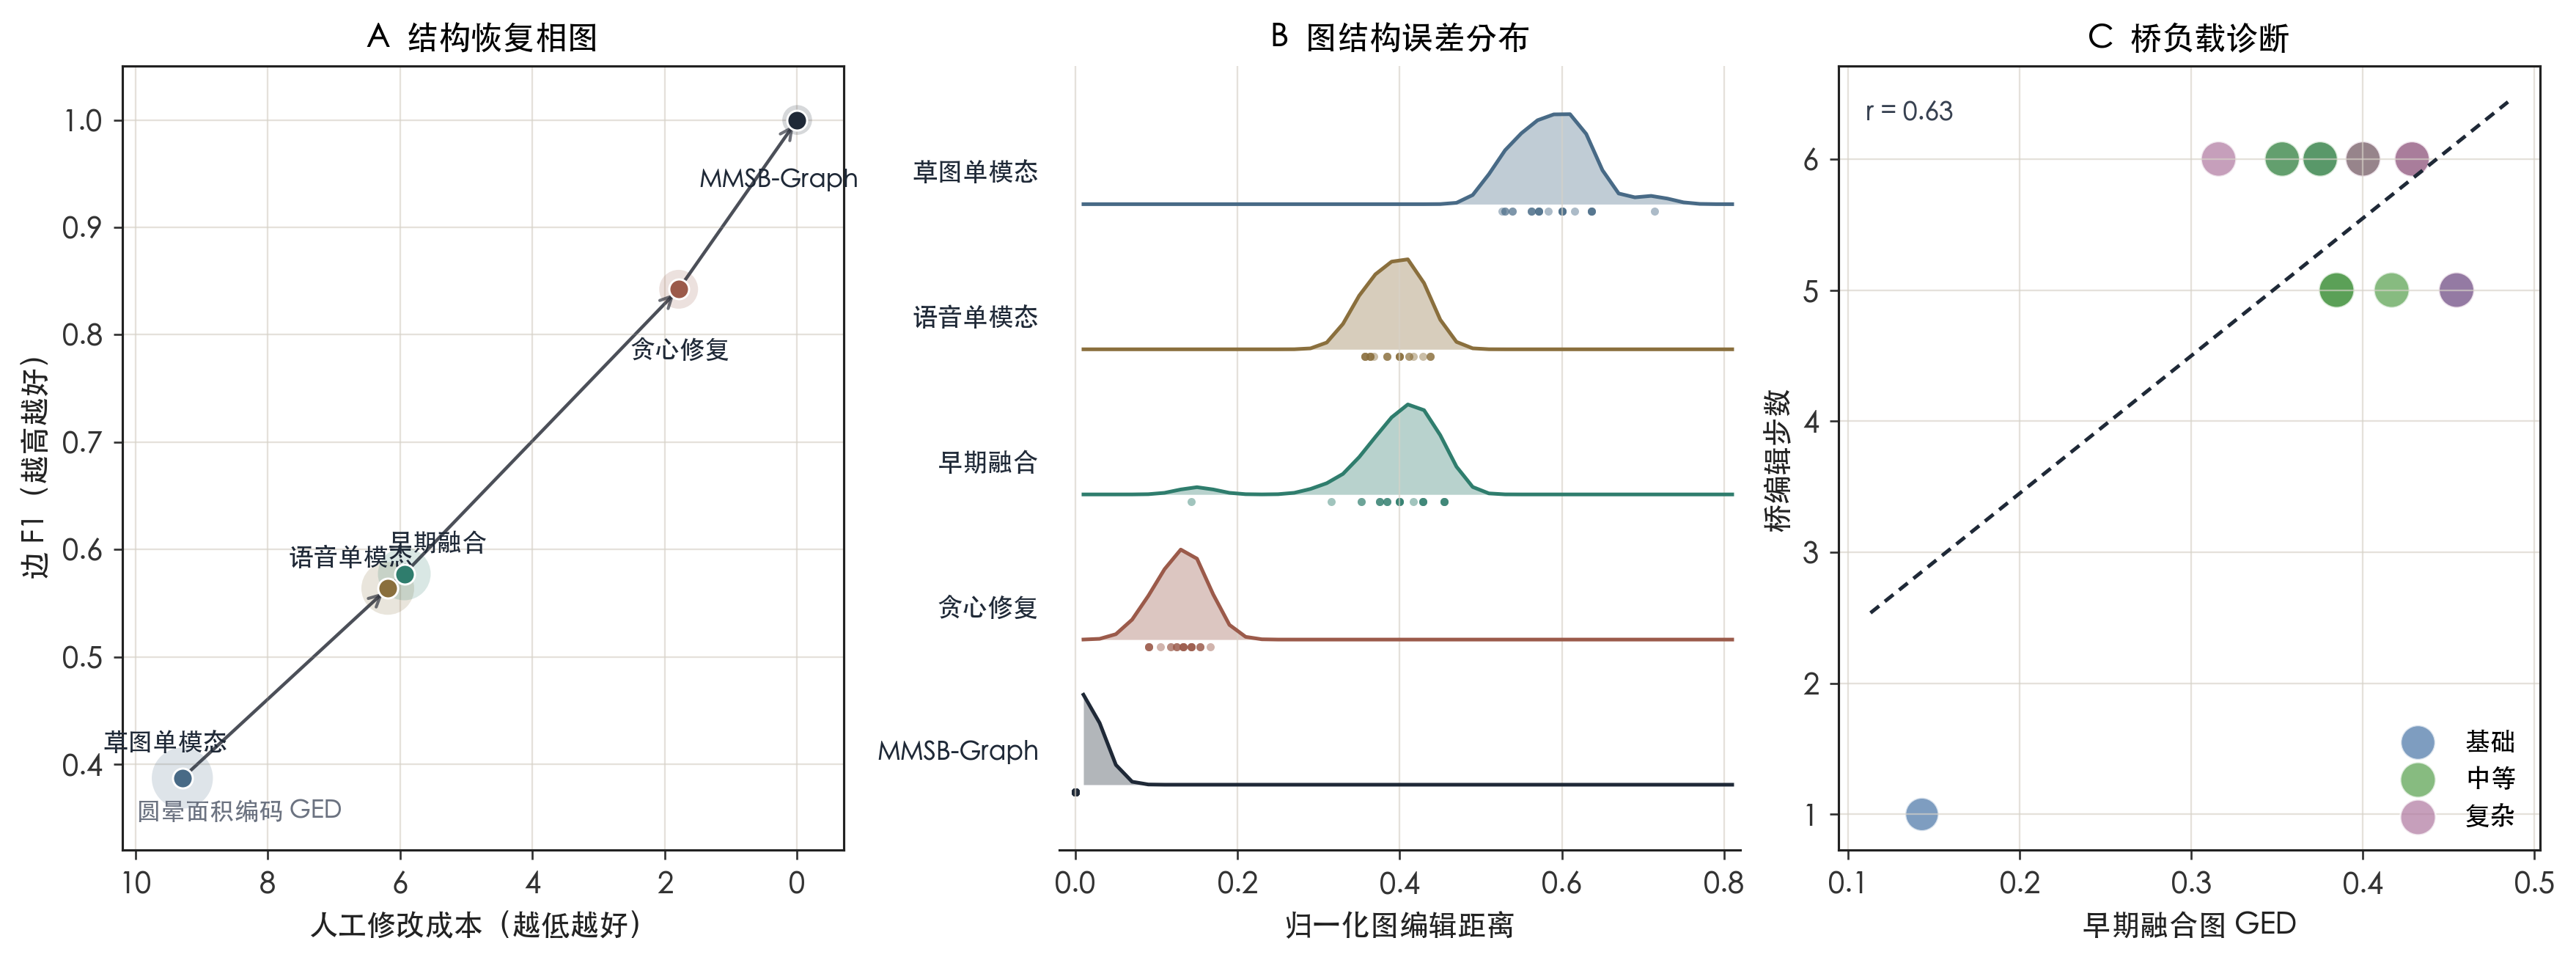
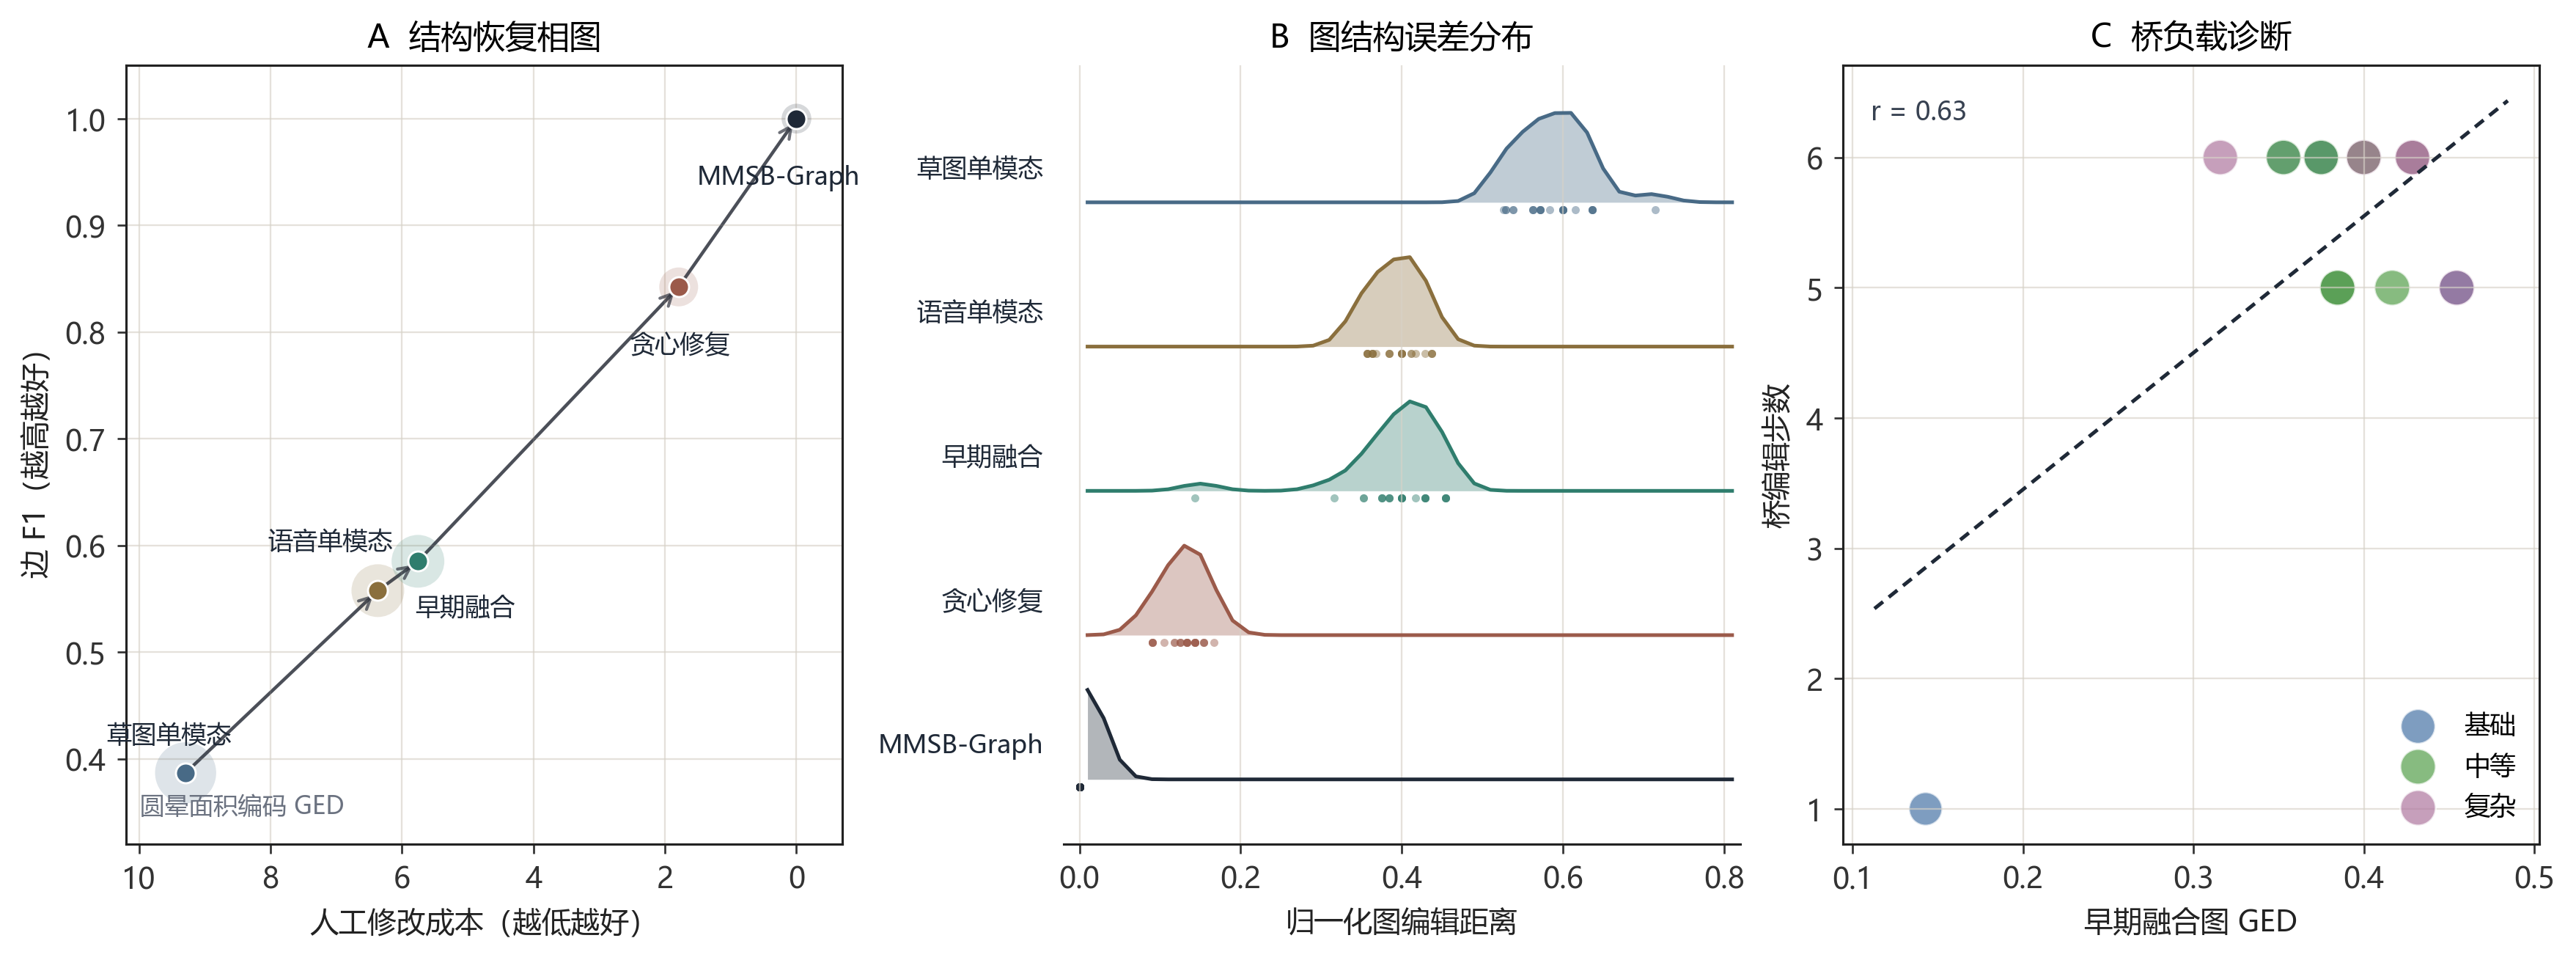
Adjust report figure annotations

diff --git a/scripts/make_research_figures.py b/scripts/make_research_figures.py
@@ -40,6 +40,9 @@ def configure_style() -> None:
     """配置适合论文插图的字体、线宽和导出参数。"""
 
     candidates = [
+        "C:/Windows/Fonts/msyh.ttc",
+        "C:/Windows/Fonts/simhei.ttf",
+        "C:/Windows/Fonts/simsun.ttc",
         "/System/Library/Fonts/PingFang.ttc",
         "/System/Library/Fonts/STHeiti Light.ttc",
         "/Library/Fonts/Arial Unicode.ttf",
@@ -62,6 +65,7 @@ def configure_style() -> None:
             "axes.titlesize": 10.5,
             "axes.labelsize": 9.5,
             "legend.fontsize": 8.5,
+            "axes.unicode_minus": False,
         }
     )
 
@@ -88,24 +92,37 @@ def draw_phase_portrait(ax: mpl.axes.Axes, aggregate: dict[str, dict[str, float]
     xs = [aggregate[key]["manual_edit_cost"] for key, _ in METHODS]
     ys = [aggregate[key]["edge_f1"] for key, _ in METHODS]
     ged = [aggregate[key]["normalized_ged"] for key, _ in METHODS]
+    # Keep nearby aggregate points readable without changing the source metrics.
+    visual_offsets = {
+        "speech_only": (0.18, -0.006),
+        "early_fusion": (-0.18, 0.008),
+    }
+    plot_xs = [
+        x + visual_offsets.get(key, (0.0, 0.0))[0]
+        for (key, _), x in zip(METHODS, xs, strict=True)
+    ]
+    plot_ys = [
+        y + visual_offsets.get(key, (0.0, 0.0))[1]
+        for (key, _), y in zip(METHODS, ys, strict=True)
+    ]
 
-    ax.plot(xs, ys, color="#30343F", linewidth=1.1, alpha=0.55, zorder=1)
-    for i in range(len(xs) - 1):
+    ax.plot(plot_xs, plot_ys, color="#30343F", linewidth=1.1, alpha=0.55, zorder=1)
+    for i in range(len(plot_xs) - 1):
         ax.annotate(
             "",
-            xy=(xs[i + 1], ys[i + 1]),
-            xytext=(xs[i], ys[i]),
+            xy=(plot_xs[i + 1], plot_ys[i + 1]),
+            xytext=(plot_xs[i], plot_ys[i]),
             arrowprops=dict(arrowstyle="->", color="#30343F", lw=1.0, alpha=0.7),
         )
 
     label_offsets = {
         "sketch_only": (0.25, 0.035),
-        "speech_only": (0.55, 0.030),
-        "early_fusion": (-0.50, 0.030),
+        "speech_only": (0.72, 0.046),
+        "early_fusion": (-0.72, -0.044),
         "greedy_repair": (-0.02, -0.055),
         "mmsb_graph": (0.28, -0.055),
     }
-    for (key, label), x, y, g in zip(METHODS, xs, ys, ged, strict=True):
+    for (key, label), x, y, g in zip(METHODS, plot_xs, plot_ys, ged, strict=True):
         size = 95 + 520 * g
         ax.scatter(x, y, s=size, color=PALETTE[key], alpha=0.18, edgecolor="none", zorder=2)
         ax.scatter(x, y, s=42, color=PALETTE[key], edgecolor="white", linewidth=0.7, zorder=3)

diff --git a/report/main.tex b/report/main.tex
@@ -128,7 +128,7 @@ FSBM 表明，少量预对齐反馈可以指导未配对样本的传输方向并
 \draw[svarrow] (gf) -- (sb);
 \draw[svarrow] (sb) -- (graph);
 \draw[svarrow] (graph) -- (render);
-\draw[svdash] (speech.east) to[out=0,in=-115] node[below, sloped, font=\scriptsize]{语音反馈约束} (sb.south);
+\draw[svdash] (speech.south east) to[out=-25,in=-155] node[below, sloped, font=\scriptsize]{语音反馈约束} (sb.south);
 \draw[svdash] (sketch.north east) to[out=25,in=155] node[above, sloped, font=\scriptsize]{空间保持约束} (sb.north);
 \end{tikzpicture}
 }